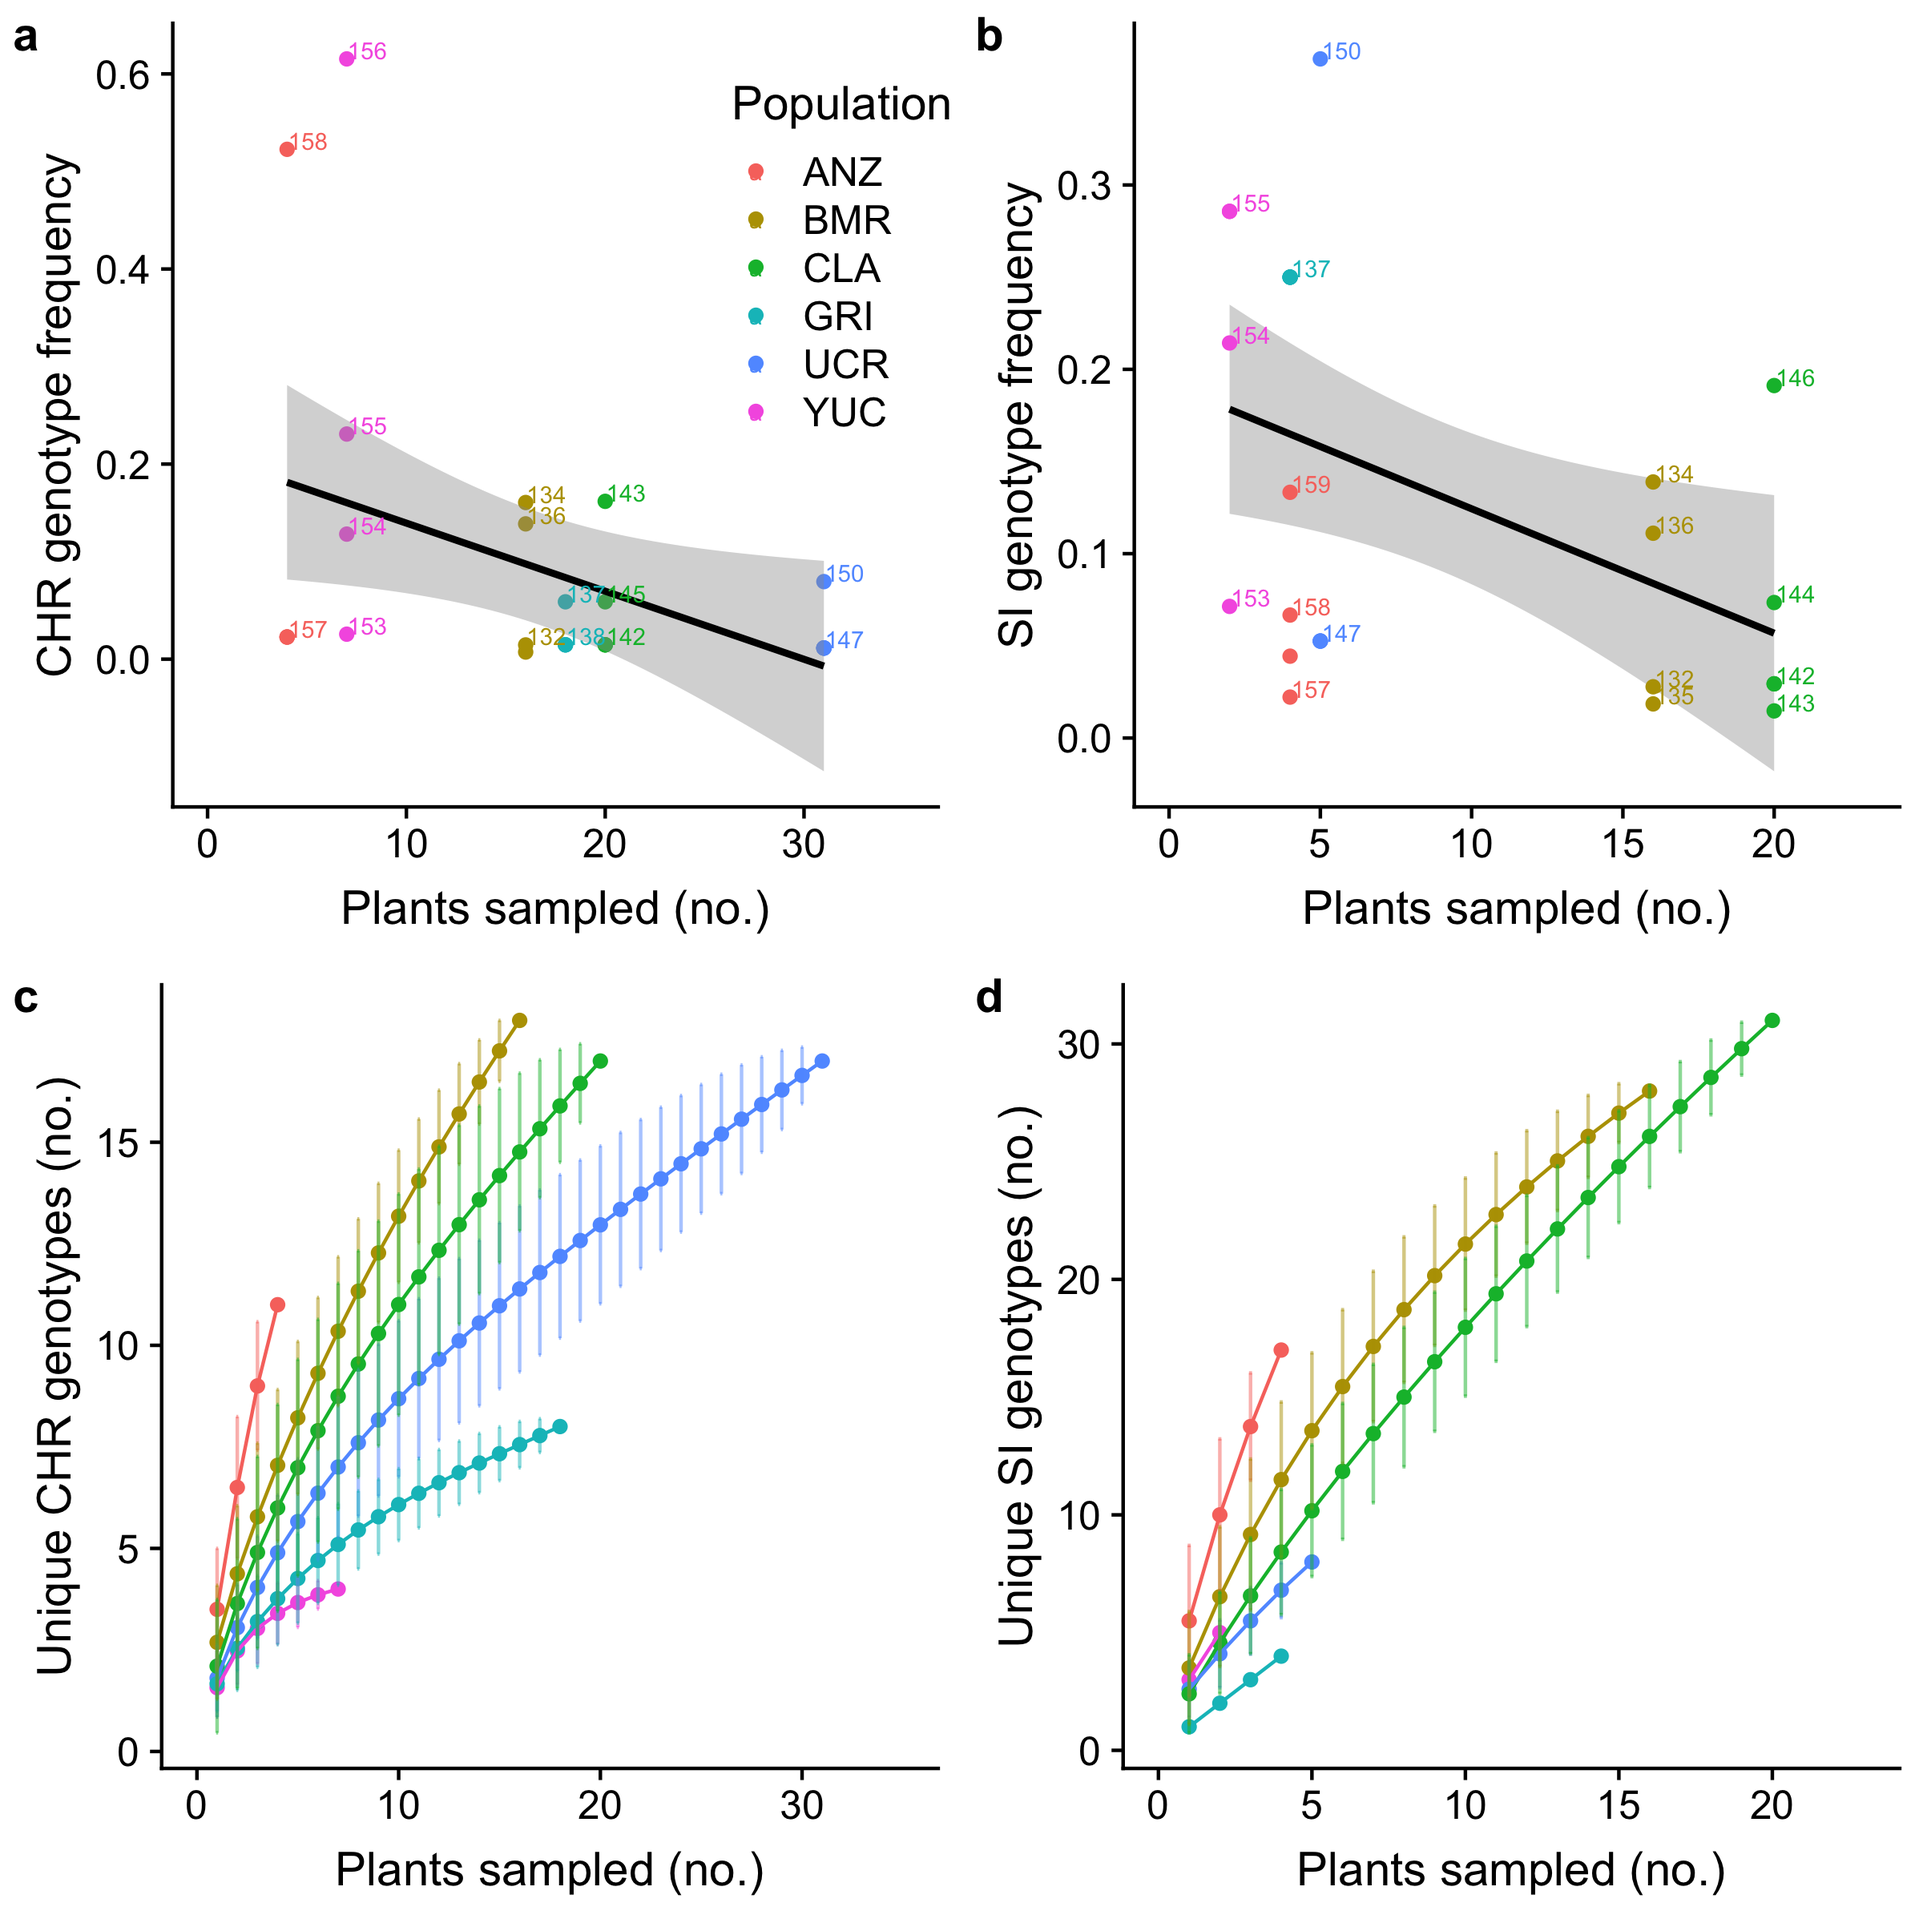
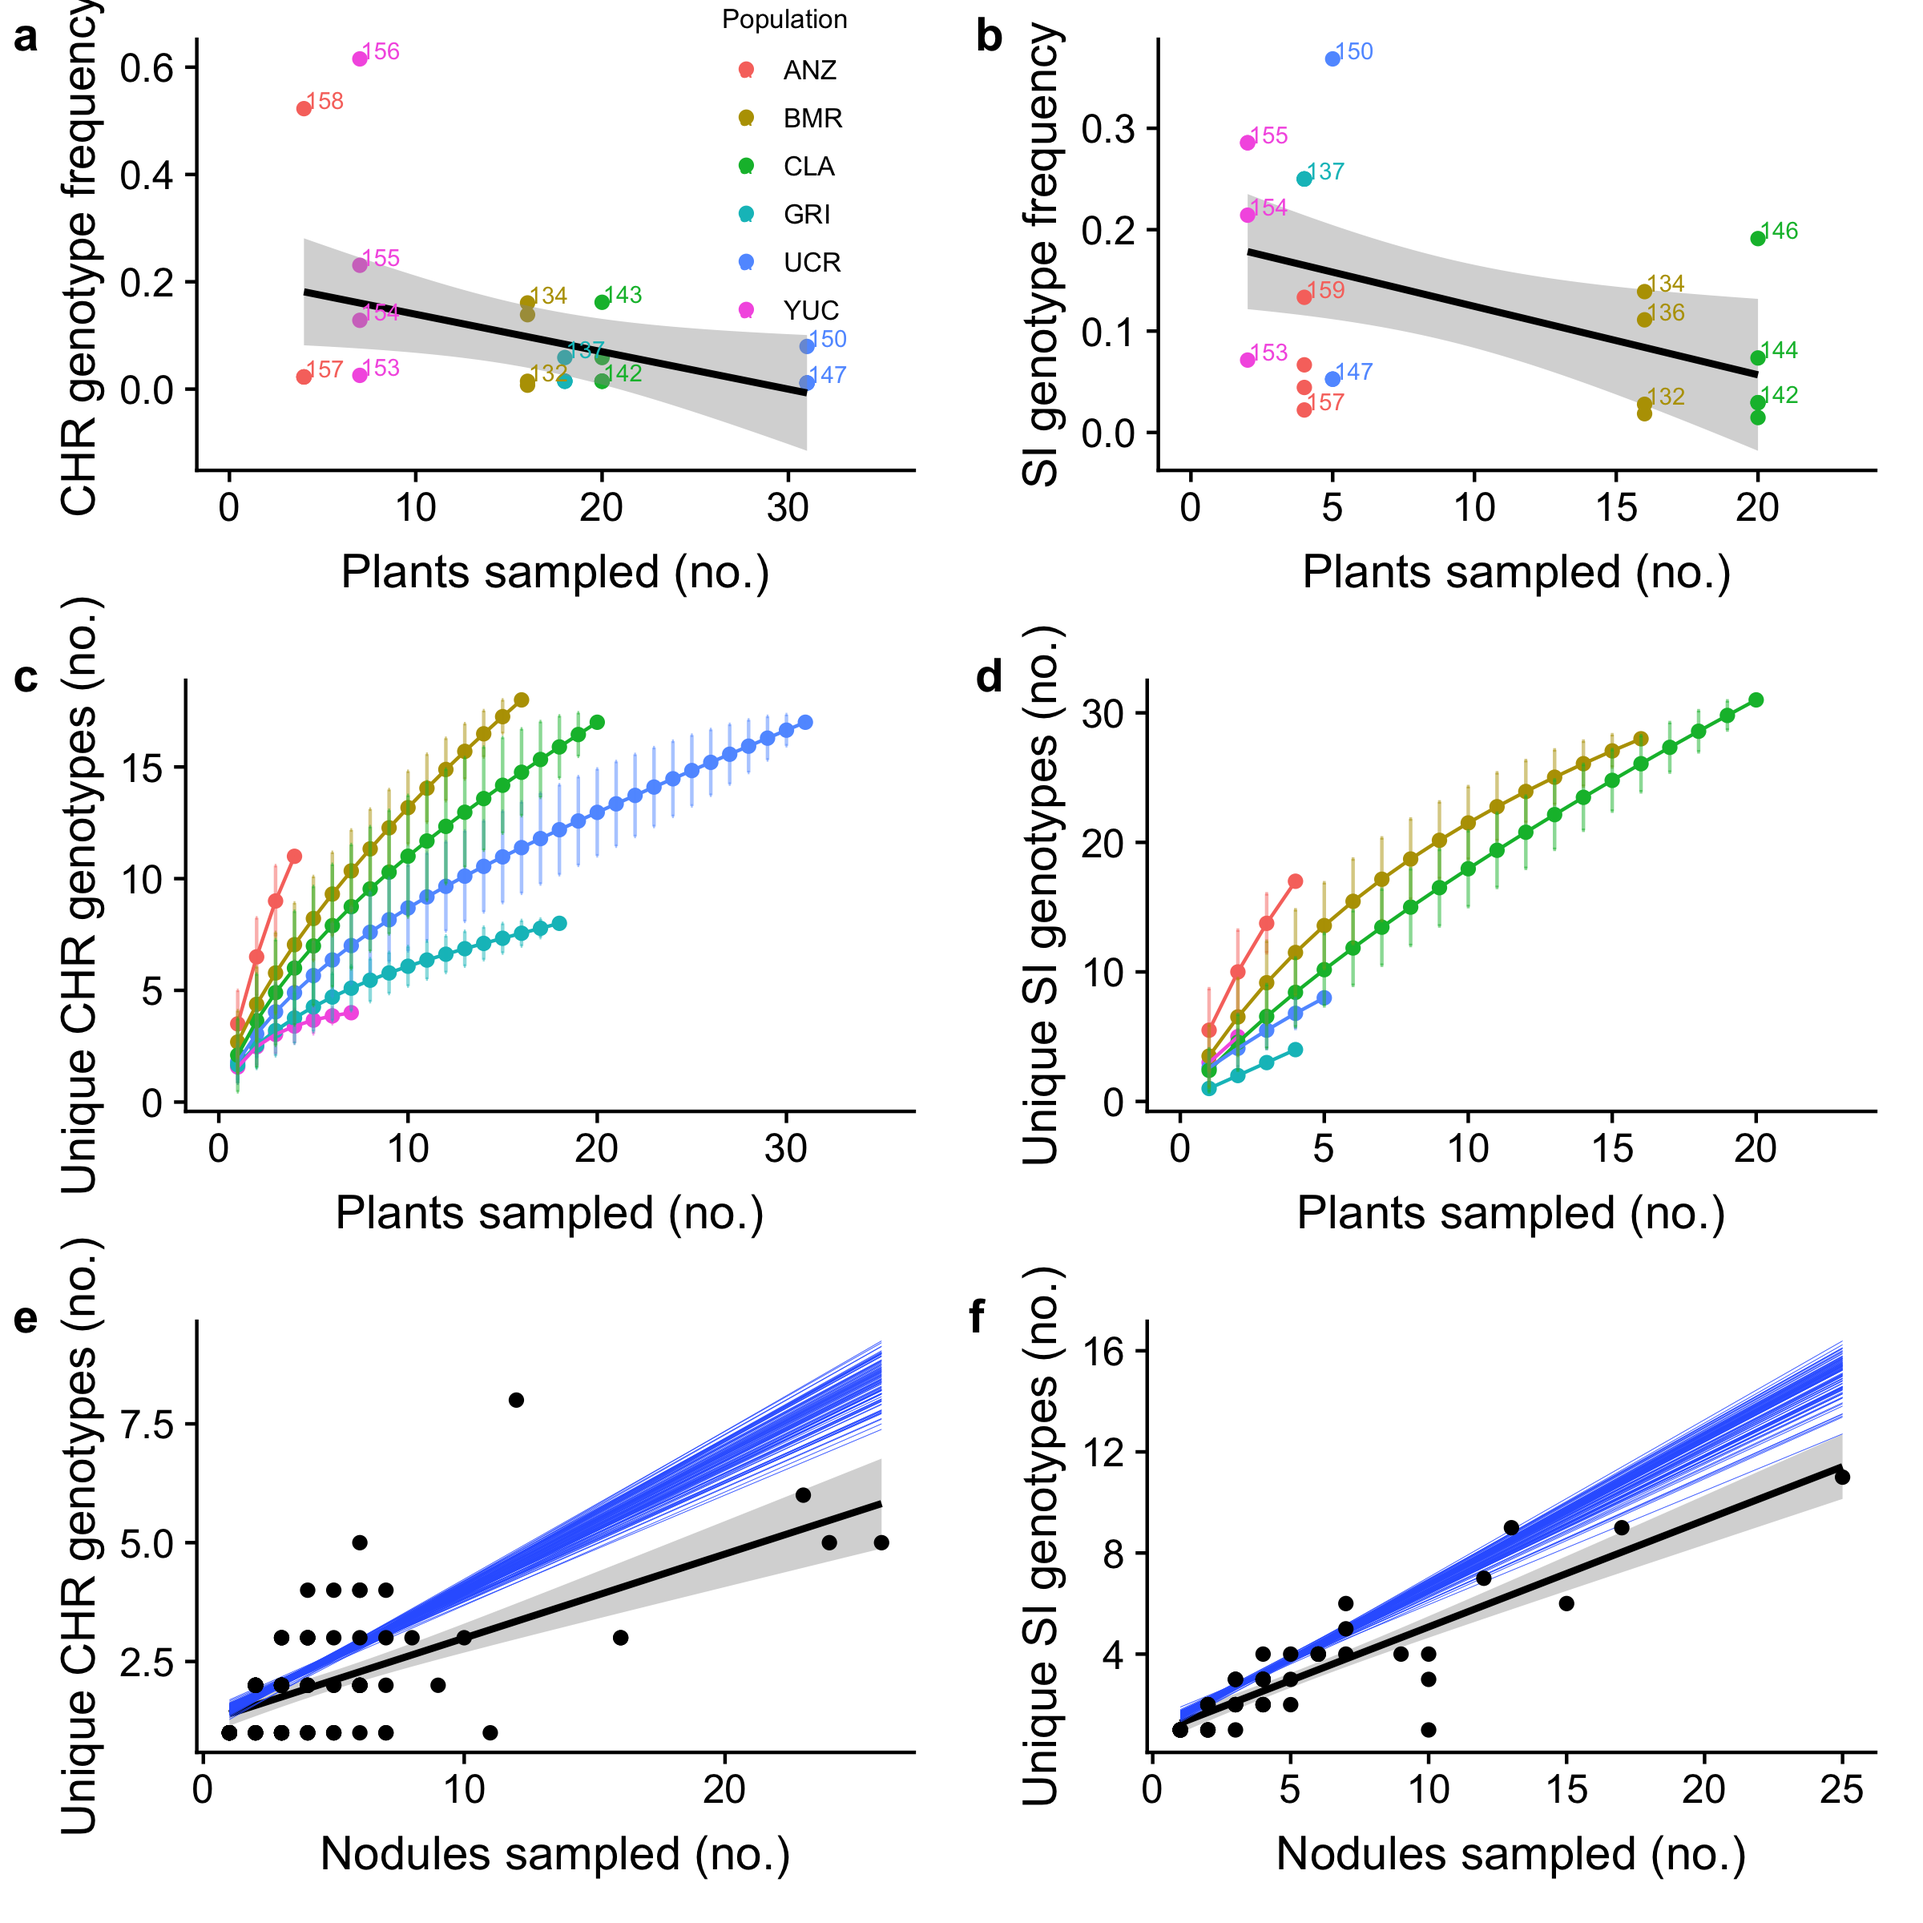
Commit from RStudio

diff --git a/README.md b/README.md
@@ -1,7 +1,7 @@
 Are rhizobia under selection to cheat?
 ================
 Megan Frederickson
-2019-05-01
+2019-05-02
 
 Is there fitness conflict between legumes and rhizobia?
 -------------------------------------------------------
@@ -165,7 +165,7 @@ summary(model2) #Significant correlation
 
 ``` r
 #Make figures
-CHR <- ggplot(data=df, aes(y=`CHR genotype frequency`, x=CHR_plants_sampled, color=Population))+geom_point()+ geom_smooth(method="lm", se=TRUE, color=1)+xlab("Plants sampled (no.)")+ylab("CHR genotype frequency")+geom_text(aes(label=Strain),hjust=0, vjust=0, size=2.5, nudge_x = 0.05, check_overlap=TRUE)+scale_x_continuous(limits=c(0, 35))+theme(legend.position = c(0.7,0.7))
+CHR <- ggplot(data=df, aes(y=`CHR genotype frequency`, x=CHR_plants_sampled, color=Population))+geom_point()+ geom_smooth(method="lm", se=TRUE, color=1)+xlab("Plants sampled (no.)")+ylab("CHR genotype frequency")+geom_text(aes(label=Strain),hjust=0, vjust=0, size=2.5, nudge_x = 0.05, check_overlap=TRUE)+scale_x_continuous(limits=c(0, 35))+theme(legend.position = c(0.7,0.7), legend.text=element_text(size=8), legend.title =element_text(size=8))
 
 SI <- ggplot(data=df, aes(y=`SI genotype frequency`, x=SI_plants_sampled, color=Population)) +geom_smooth(method="lm", se=TRUE, color=1)+geom_point()+xlab("Plants sampled (no.)")+ylab("SI genotype frequency")+geom_text(aes(label=Strain),hjust=0, vjust=0, size=2.5, nudge_x = 0.05, check_overlap=TRUE)+scale_x_continuous(limits=c(0, 23))+guides(color=FALSE)
 
@@ -221,16 +221,11 @@ SI.accum.curve <- ggplot(data=SI.accum, aes(x=plants, y=richness, color=Populati
 
 CHR.accum.curve <- ggplot(data=CHR.accum, aes(x=plants, y=richness, color=Population))+geom_point()+geom_line()+geom_errorbar(aes(x=plants, ymin=richness-SD, ymax=richness+SD), alpha=0.5, width=0.1)+xlab("Plants sampled (no.)")+ylab("Unique CHR genotypes (no.)")+scale_x_continuous(limits=c(0, 35))+guides(color=FALSE)
  
-#Combine with previous figures to make full figure for paper
-fig1 <- plot_grid(CHR, SI, CHR.accum.curve, SI.accum.curve, nrow=2, ncol=2, labels="auto")
-fig1
+fig.accum <- plot_grid(CHR.accum.curve, SI.accum.curve, nrow=2, labels="auto")
+fig.accum
 ```
 
 ![](README_files/figure-markdown_github/Rarefaction-1.png)
-
-``` r
-save_plot("Fig1.png", fig1, base_width=8, base_height=8)
-```
 
 How does uneven sampling among sites affect the results?
 --------------------------------------------------------
@@ -538,18 +533,18 @@ summary(model9) #Non-significant
     ## 
     ## Residuals:
     ##      Min       1Q   Median       3Q      Max 
-    ## -0.14480 -0.06838 -0.03840  0.00813  0.38440 
+    ## -0.14593 -0.07146 -0.03860  0.00511  0.38578 
     ## 
     ## Coefficients:
     ##                Estimate Std. Error t value Pr(>|t|)   
-    ## (Intercept)      0.3269     0.1164   2.809  0.00972 **
-    ## mean_log10_RGR  -0.2160     0.1295  -1.669  0.10814   
+    ## (Intercept)      0.3293     0.1173   2.808  0.00974 **
+    ## mean_log10_RGR  -0.2179     0.1304  -1.670  0.10784   
     ## ---
     ## Signif. codes:  0 '***' 0.001 '**' 0.01 '*' 0.05 '.' 0.1 ' ' 1
     ## 
-    ## Residual standard error: 0.1399 on 24 degrees of freedom
-    ## Multiple R-squared:  0.104,  Adjusted R-squared:  0.06664 
-    ## F-statistic: 2.785 on 1 and 24 DF,  p-value: 0.1081
+    ## Residual standard error: 0.141 on 24 degrees of freedom
+    ## Multiple R-squared:  0.1041, Adjusted R-squared:  0.06682 
+    ## F-statistic:  2.79 on 1 and 24 DF,  p-value: 0.1078
 
 ``` r
 #Fit model for mean SI genotype frequency from re-sampling and RGR
@@ -563,18 +558,18 @@ summary(model10) #Non-significant
     ## 
     ## Residuals:
     ##      Min       1Q   Median       3Q      Max 
-    ## -0.18483 -0.09245 -0.03852  0.08170  0.26841 
+    ## -0.18867 -0.09930 -0.03312  0.06315  0.26833 
     ## 
     ## Coefficients:
     ##                Estimate Std. Error t value Pr(>|t|)  
-    ## (Intercept)     0.28332    0.13439   2.108   0.0478 *
-    ## mean_log10_RGR -0.05076    0.14699  -0.345   0.7335  
+    ## (Intercept)     0.29317    0.13529   2.167   0.0425 *
+    ## mean_log10_RGR -0.06033    0.14798  -0.408   0.6878  
     ## ---
     ## Signif. codes:  0 '***' 0.001 '**' 0.01 '*' 0.05 '.' 0.1 ' ' 1
     ## 
-    ## Residual standard error: 0.1569 on 20 degrees of freedom
-    ## Multiple R-squared:  0.005926,   Adjusted R-squared:  -0.04378 
-    ## F-statistic: 0.1192 on 1 and 20 DF,  p-value: 0.7335
+    ## Residual standard error: 0.158 on 20 degrees of freedom
+    ## Multiple R-squared:  0.008243,   Adjusted R-squared:  -0.04135 
+    ## F-statistic: 0.1662 on 1 and 20 DF,  p-value: 0.6878
 
 ``` r
 #Make figures
@@ -674,7 +669,7 @@ fig.nods #Show figure
 Are nodules independent samples?
 --------------------------------
 
-Are multiple nodules on the same plant independent samples of the rhizobia present in a population?
+Are multiple nodules on the same plant independent samples of the rhizobia present in a population? Here, I plot the number of unique rhizobia genotypes in nodules from the same plant in the original dataset (black dots and lines) as well as the number of unique rhizobia genotypes in the same number of nodules sampled at random within a population (blue lines show the linear regressions for each of 100 permutations).
 
 ``` r
 #Real data
@@ -700,24 +695,49 @@ for(i in 1:6) {
   }
 }
 
+#Summarize randomized data 
 random.data <- random.table_S1 %>% group_by(Population, locus, Plant_ID, permutation) %>% summarize(total_nods_sampled=n(), n_unique_haplotypes = length(unique(haplotype)))
 
-#random.data <- random.data %>% group_by(Population, locus, Plant_ID) %>% summarize(total_nods_sampled=mean(total_nods_sampled), mean_n_unique_haplotypes = mean(n_unique_haplotypes))
-
-SI.nods.sampling <- ggplot()+geom_smooth(data=subset(real.data, locus == "SI_haplotype"), aes(x=total_nods_sampled, y=n_unique_haplotypes), method="lm", color="red")+
+#Make figures
+SI.nods.sampling <- ggplot()+geom_smooth(data=subset(real.data, locus == "SI_haplotype"), aes(x=total_nods_sampled, y=n_unique_haplotypes), method="lm", color="black")+
   geom_smooth(data=subset(random.data, locus == "SI_haplotype"), aes(x=total_nods_sampled, y=n_unique_haplotypes, fill=as.factor(permutation)), method="lm", se=FALSE, size=0.1)+
   ylab("Unique SI genotypes (no.)")+xlab("Nodules sampled (no.)")+
   guides(fill=FALSE)+
+  #  geom_jitter(data=subset(random.data, locus == "SI_haplotype"), aes(x=total_nods_sampled, y=n_unique_haplotypes), shape=1)+
   geom_point(data=subset(real.data, locus == "SI_haplotype"), aes(x=total_nods_sampled, y=n_unique_haplotypes))
 
-CHR.nods.sampling <- ggplot()+geom_smooth(data=subset(real.data, locus == "CHR_haplotype"), aes(x=total_nods_sampled, y=n_unique_haplotypes), method="lm", color="red")+
+
+CHR.nods.sampling <- ggplot()+geom_smooth(data=subset(real.data, locus == "CHR_haplotype"), aes(x=total_nods_sampled, y=n_unique_haplotypes), method="lm", color="black")+
   geom_smooth(data=subset(random.data, locus == "CHR_haplotype"), aes(x=total_nods_sampled, y=n_unique_haplotypes, fill=as.factor(permutation)), method="lm", se=FALSE,  size=0.1)+
   ylab("Unique CHR genotypes (no.)")+xlab("Nodules sampled (no.)")+
   guides(fill=FALSE)+
+  #  geom_jitter(data=subset(random.data, locus == "CHR_haplotype"), aes(x=total_nods_sampled, y=n_unique_haplotypes), shape=1)+
   geom_point(data=subset(real.data, locus == "CHR_haplotype"), aes(x=total_nods_sampled, y=n_unique_haplotypes))
+
 
 fig.nods.sampling <- plot_grid(CHR.nods.sampling, SI.nods.sampling, labels="auto") 
 fig.nods.sampling
 ```
 
 ![](README_files/figure-markdown_github/unnamed-chunk-1-1.png)
+
+``` r
+#Combine with previous figures to make full figure for paper
+fig1 <- plot_grid(CHR, SI, CHR.accum.curve, SI.accum.curve, CHR.nods.sampling, SI.nods.sampling, nrow=3, ncol=2, labels="auto", scale=0.95)
+```
+
+    ## Warning: Removed 1 rows containing non-finite values (stat_smooth).
+
+    ## Warning: Removed 1 rows containing missing values (geom_point).
+
+    ## Warning: Removed 1 rows containing missing values (geom_text).
+
+``` r
+fig1
+```
+
+![](README_files/figure-markdown_github/unnamed-chunk-1-2.png)
+
+``` r
+save_plot("Fig1.png", fig1, base_width=8, base_height=8)
+```
